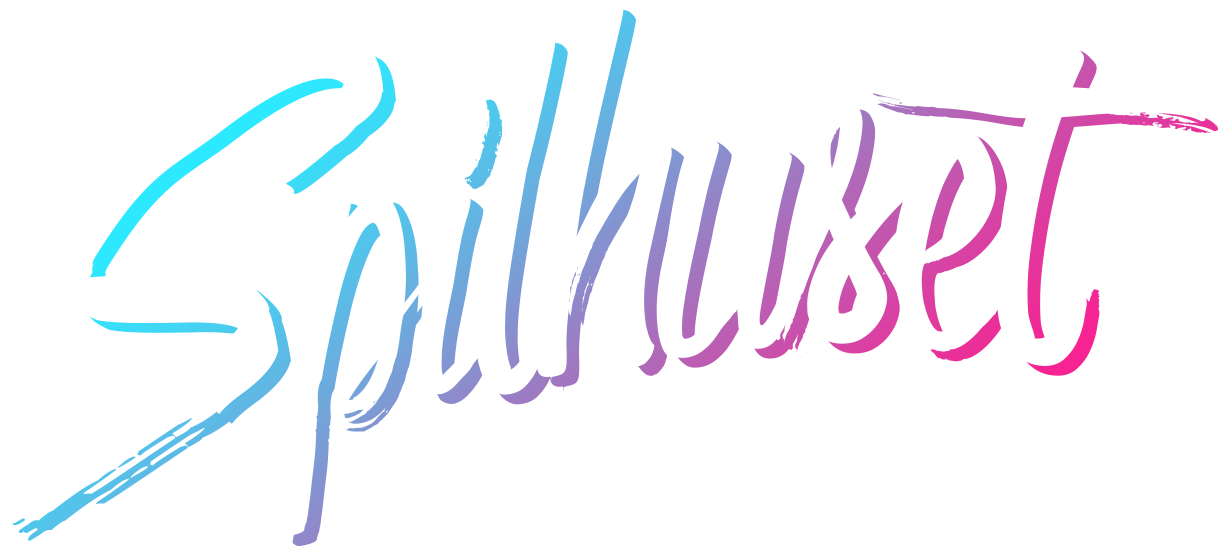
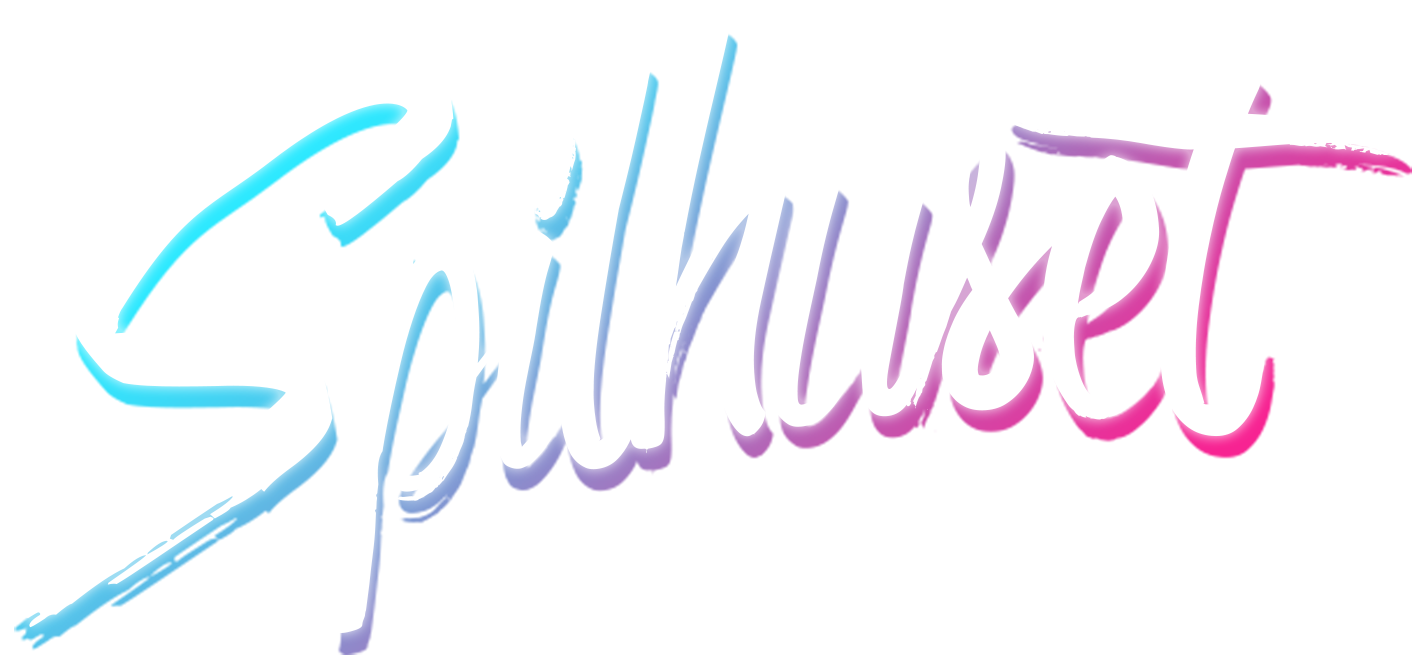
Small layout improvements. Replaced faulty images

Changed region(s): [[0.0, 0.0311, 1.0, 0.9963], [0.2494, 0.9963, 0.2806, 1.0], [0.2182, 0.9652, 0.2494, 0.9963]]

diff --git a/assets/css/main.scss b/assets/css/main.scss
@@ -96,17 +96,6 @@ p, li {
 	z-index: 3;
 	height: 715px;
 
-	.hover {
-		background: rgb(32, 34, 43);
-		height: 100%;
-		left: 0;
-		position: absolute;
-		top: 0;
-		width: 100%;
-		opacity: 0.5;
-		z-index: 5;
-	}
-
 	.video-overlay {
 		height: 100%;
 		left: 0;
@@ -177,7 +166,7 @@ p, li {
 }
 
 .offer {
-	padding: 40px 0;
+	padding: 40px 0 60px 0;
 
 	.title {
 		margin-bottom: 30px;
@@ -258,7 +247,7 @@ p, li {
 }
 
 .pricing {
-	padding-top: 360px;
+	
 
 	.model {
 		background: #fff;
@@ -266,6 +255,13 @@ p, li {
 		padding: 40px 10px;
 		@include span-columns(4 of 12);
 		text-align: center;
+		margin-top: 360px;
+		@include transition(all 0.2s ease-in-out);
+
+		&:hover {
+			margin-top: 320px;
+			height: 485px;
+		}
 
 		.icon {
 			height: 60px;
